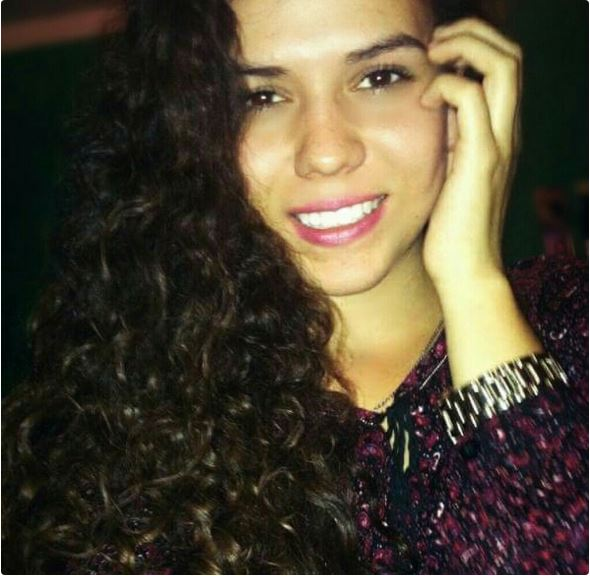
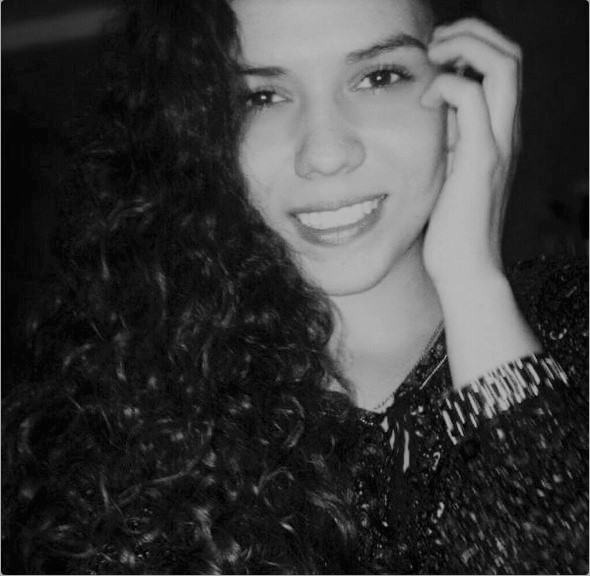
Se añadieron las fotos

diff --git a/index.html b/index.html
@@ -101,7 +101,7 @@
 						 <li><img src="images/gonzo.jpg" alt="01"/><h5>Gonzalo | Developer</h5></li>
 						 <li><img src="images/jose.jpg" alt="02"/><h5>José | Developer</h5></li>
 						 <li><img src="images/ale.jpg" alt="03"/><h5>Alejandra | Developer</h5></li>
-						 <li><img src="images/jose.jpg" alt="03"/><h5>Erik | Designer</h5></li>
+						 <li><img src="images/erik.jpg" alt="03"/><h5>Erik | Designer</h5></li>
 					 </ul>
 					 <h1 class="titulo-nosotros txt-rotate"
  	 					data-period="2000"
